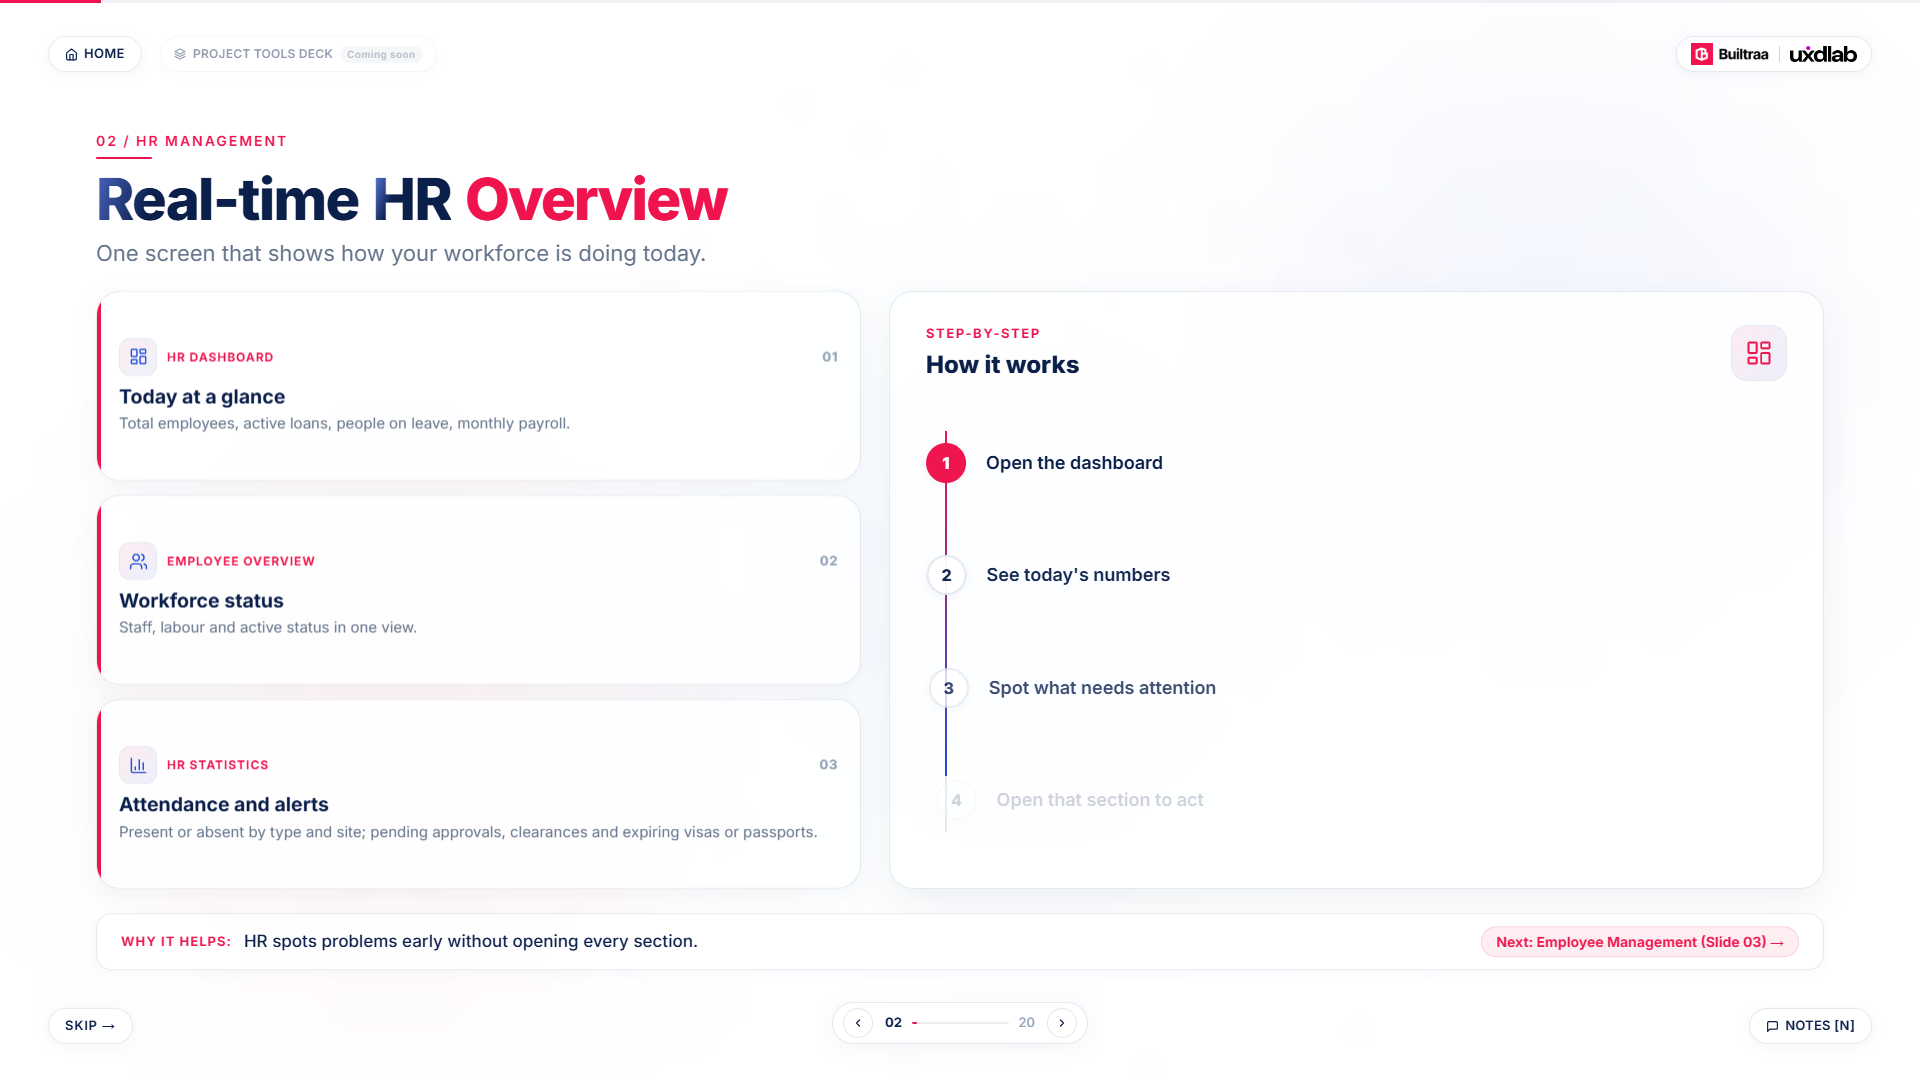
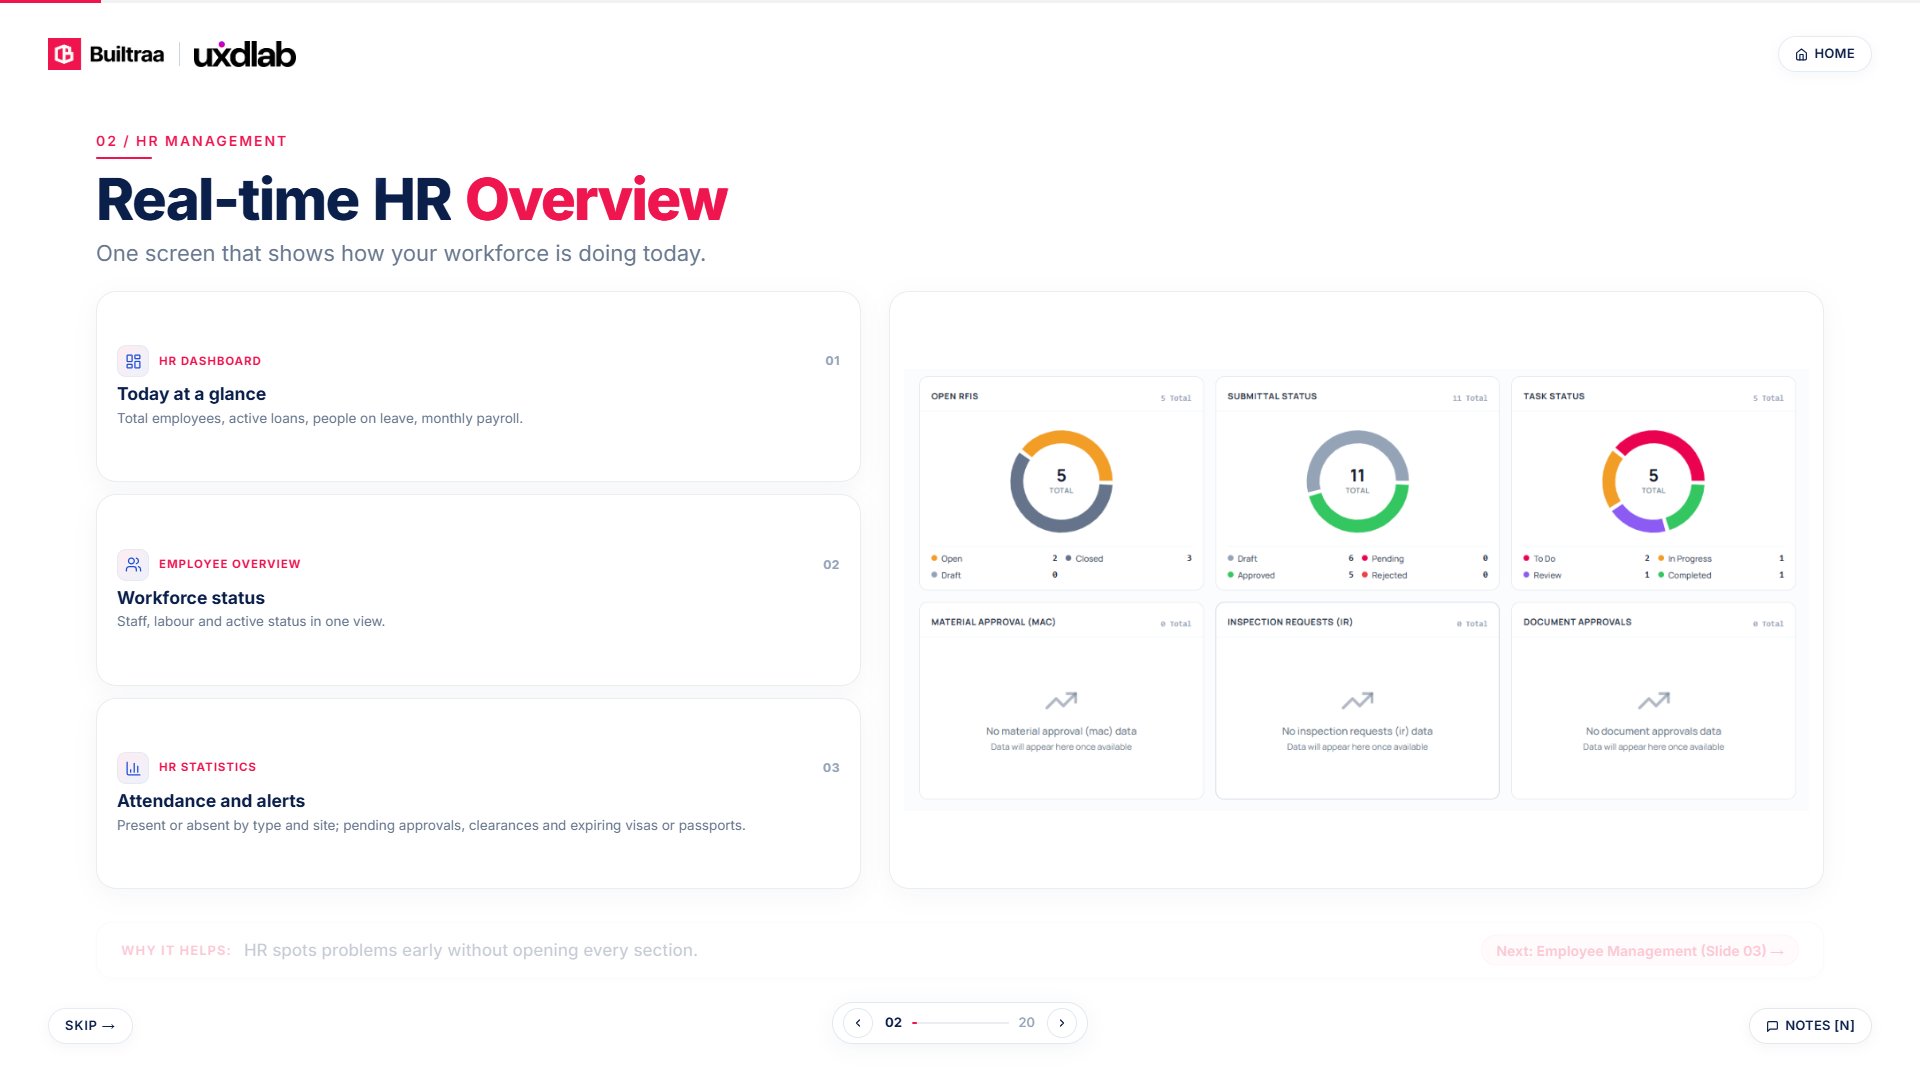
UPDATED

diff --git a/src/slides/Slide2.jsx b/src/slides/Slide2.jsx
@@ -1,6 +1,194 @@
 import React from 'react';
-import ModuleSlide from '../components/ModuleSlide';
+import {
+  SlideLayout,
+  SlideTitle,
+  WhyItHelpsStrip,
+} from '../components/shared';
+import { SLIDES_DATA } from '../slidesData';
 
-export default function Slide2(props) {
-  return <ModuleSlide slideNumber={2} {...props} />;
+// Slide 02 clean feature card matching Slide 3–7 style
+function Slide2FeatureCard({ icon: Icon, number, moduleLabel, title, text }) {
+  return (
+    <div
+      style={{
+        position: 'relative',
+        borderRadius: 20,
+        padding: '16px 20px',
+        border: '1px solid rgba(15, 23, 42, 0.08)',
+        background: '#FFFFFF',
+        boxShadow: '0 6px 24px rgba(11, 31, 75, 0.04)',
+        display: 'flex',
+        flexDirection: 'column',
+        justifyContent: 'center',
+        flex: 1,
+        minHeight: 0,
+        overflow: 'hidden',
+        boxSizing: 'border-box',
+      }}
+    >
+      {/* Header: Icon chip + Module Label (left) + Number (right) */}
+      <div style={{
+        display: 'flex',
+        alignItems: 'center',
+        justifyContent: 'space-between',
+        marginBottom: 6,
+      }}>
+        <div style={{ display: 'flex', alignItems: 'center', gap: 10 }}>
+          {Icon && (
+            <div style={{
+              width: 32,
+              height: 32,
+              borderRadius: 9,
+              background: 'linear-gradient(135deg, rgba(239, 20, 78, 0.08) 0%, rgba(29, 78, 216, 0.08) 100%)',
+              border: '1px solid rgba(226, 232, 240, 0.8)',
+              display: 'flex',
+              alignItems: 'center',
+              justifyContent: 'center',
+              flexShrink: 0,
+            }}>
+              <Icon size={17} color="#1D4ED8" strokeWidth={1.8} />
+            </div>
+          )}
+
+          {moduleLabel && (
+            <span style={{
+              fontSize: 11.5,
+              fontWeight: 700,
+              color: '#EF144E',
+              textTransform: 'uppercase',
+              letterSpacing: '0.08em',
+              fontFamily: "'Inter', sans-serif",
+            }}>
+              {moduleLabel}
+            </span>
+          )}
+        </div>
+
+        <span style={{
+          fontSize: 12,
+          fontWeight: 700,
+          color: '#94A3B8',
+          fontFamily: "'Inter', sans-serif",
+          letterSpacing: '0.05em',
+        }}>
+          {number}
+        </span>
+      </div>
+
+      {/* Card Title */}
+      <div style={{
+        fontSize: 17.5,
+        fontWeight: 700,
+        color: '#0B1F4B',
+        lineHeight: 1.25,
+        marginBottom: 4,
+        fontFamily: "'Inter', sans-serif",
+      }}>
+        {title}
+      </div>
+
+      {/* Card Text */}
+      <div style={{
+        fontSize: 13.5,
+        fontWeight: 400,
+        color: '#64748B',
+        lineHeight: 1.38,
+        fontFamily: "'Inter', sans-serif",
+      }}>
+        {text}
+      </div>
+    </div>
+  );
+}
+
+export default function Slide2({ slideNumber = 2, totalSlides = 20, onNavigate }) {
+  const slideData = SLIDES_DATA.find((s) => s.slideNumber === 2);
+
+  if (!slideData) {
+    return <div>Slide 2 not found</div>;
+  }
+
+  // Next slide calculation
+  let nextSlide = null;
+  const nextData = SLIDES_DATA.find((s) => s.slideNumber === 3);
+  if (nextData) {
+    const nextTitle = nextData.sectionName ||
+      (nextData.titleNavy ? `${nextData.titleNavy} ${nextData.titleBrand || ''}`.trim() : 'Next');
+    nextSlide = {
+      number: 3,
+      title: nextTitle,
+      index: 2,
+    };
+  }
+
+  return (
+    <SlideLayout
+      slideNumber={slideNumber}
+      totalSlides={totalSlides}
+      speakerNotes={slideData.speakerNotes}
+    >
+      {/* Title Block */}
+      <SlideTitle
+        eyebrow={slideData.eyebrow}
+        titleNavy={slideData.titleNavy}
+        titleBrand={slideData.titleBrand}
+        titleNavyAfter={slideData.titleNavyAfter}
+        intro={slideData.intro}
+        slideIndex={slideNumber}
+      />
+
+      {/* Main 2-Column Grid: Left Feature Cards (45%), Right Screenshot Card (55%) */}
+      <div style={{
+        display: 'flex',
+        gap: 28,
+        flex: 1,
+        alignItems: 'stretch',
+        minHeight: 0,
+        margin: '6px 0',
+      }}>
+        {/* Left Column: 3 Clean Feature Cards */}
+        <div style={{
+          width: '45%',
+          display: 'flex',
+          flexDirection: 'column',
+          gap: 12,
+          justifyContent: 'space-between',
+        }}>
+          {slideData.cards && slideData.cards.map((card, idx) => (
+            <Slide2FeatureCard
+              key={card.number || idx}
+              icon={card.icon}
+              number={card.number}
+              moduleLabel={card.moduleLabel}
+              title={card.title}
+              text={card.text}
+            />
+          ))}
+        </div>
+
+        {/* Right Column: Screenshot Card (Replaces Step-by-step panel) */}
+        <div style={{
+          width: '55%',
+          display: 'flex',
+          height: '100%',
+        }}>
+          <div className="shot-card" style={{ height: '100%', width: '100%', padding: 14 }}>
+            <img
+              src="/assets/slide2/hr-overview.png"
+              alt="Builtraa Real-time HR Overview Dashboard"
+              className="shot-card__img"
+              loading="eager"
+            />
+          </div>
+        </div>
+      </div>
+
+      {/* Bottom: "Why it helps" One-Line Strip */}
+      <WhyItHelpsStrip
+        text={slideData.whyItHelps}
+        nextSlide={nextSlide}
+        onNavigate={onNavigate}
+      />
+    </SlideLayout>
+  );
 }

diff --git a/src/slides/Slide1.jsx b/src/slides/Slide1.jsx
@@ -66,44 +66,6 @@ export default function Slide1({ onNavigate }) {
         }}
       />
 
-      {/* Soft Ambient Background Glows */}
-      <div style={{
-        position: 'absolute',
-        top: '10%',
-        right: '8%',
-        width: 580,
-        height: 580,
-        borderRadius: '50%',
-        background: 'rgba(29, 78, 216, 0.07)',
-        filter: 'blur(130px)',
-        pointerEvents: 'none',
-        zIndex: 1,
-      }} />
-      <div style={{
-        position: 'absolute',
-        bottom: '10%',
-        left: '8%',
-        width: 520,
-        height: 520,
-        borderRadius: '50%',
-        background: 'rgba(239, 20, 78, 0.06)',
-        filter: 'blur(140px)',
-        pointerEvents: 'none',
-        zIndex: 1,
-      }} />
-      <div style={{
-        position: 'absolute',
-        top: '36%',
-        left: '44%',
-        width: 440,
-        height: 440,
-        borderRadius: '50%',
-        background: 'rgba(219, 234, 254, 0.35)',
-        filter: 'blur(140px)',
-        pointerEvents: 'none',
-        zIndex: 1,
-      }} />
-
       {/* Main Content Area (Strict Safe Zone: y = 130 to y = 920) */}
       <div style={{
         position: 'absolute',

diff --git a/src/components/shared.jsx b/src/components/shared.jsx
@@ -52,26 +52,6 @@ export function SlideLayout({
         />
       </div>
 
-      {/* 2–3 Soft Ambient Background Glows (Calm, subtle, 6–10% opacity, ~400px blur) */}
-      <div style={{
-        position: 'absolute', top: '8%', right: '6%',
-        width: 520, height: 520, borderRadius: '50%',
-        background: 'rgba(29, 78, 216, 0.06)',
-        filter: 'blur(120px)', pointerEvents: 'none', zIndex: 0,
-      }} />
-      <div style={{
-        position: 'absolute', bottom: '10%', left: '8%',
-        width: 480, height: 480, borderRadius: '50%',
-        background: 'rgba(239, 20, 78, 0.05)',
-        filter: 'blur(130px)', pointerEvents: 'none', zIndex: 0,
-      }} />
-      <div style={{
-        position: 'absolute', top: '35%', left: '42%',
-        width: 440, height: 440, borderRadius: '50%',
-        background: 'rgba(219, 234, 254, 0.35)',
-        filter: 'blur(140px)', pointerEvents: 'none', zIndex: 0,
-      }} />
-
       {/* Main Content Area (Strict Safe Zone: y = 130px to y = 970px, Height = 840px, Margins = 96px) */}
       <div style={{
         position: 'absolute',

diff --git a/src/slides/Slide20.jsx b/src/slides/Slide20.jsx
@@ -29,17 +29,6 @@ export default function Slide20({ slideIndex = 20, totalSlides = 20, onNavigate 
         textAlign: 'center',
         position: 'relative',
       }}>
-        {/* Large Central Brand Glow */}
-        <div style={{
-          position: 'absolute',
-          width: 540,
-          height: 540,
-          borderRadius: '50%',
-          background: 'radial-gradient(circle, rgba(239, 20, 78, 0.12) 0%, rgba(29, 78, 216, 0.08) 50%, transparent 75%)',
-          filter: 'blur(60px)',
-          pointerEvents: 'none',
-        }} />
-
         {/* Eyebrow */}
         <motion.div
           initial={{ opacity: 0, y: -8 }}
